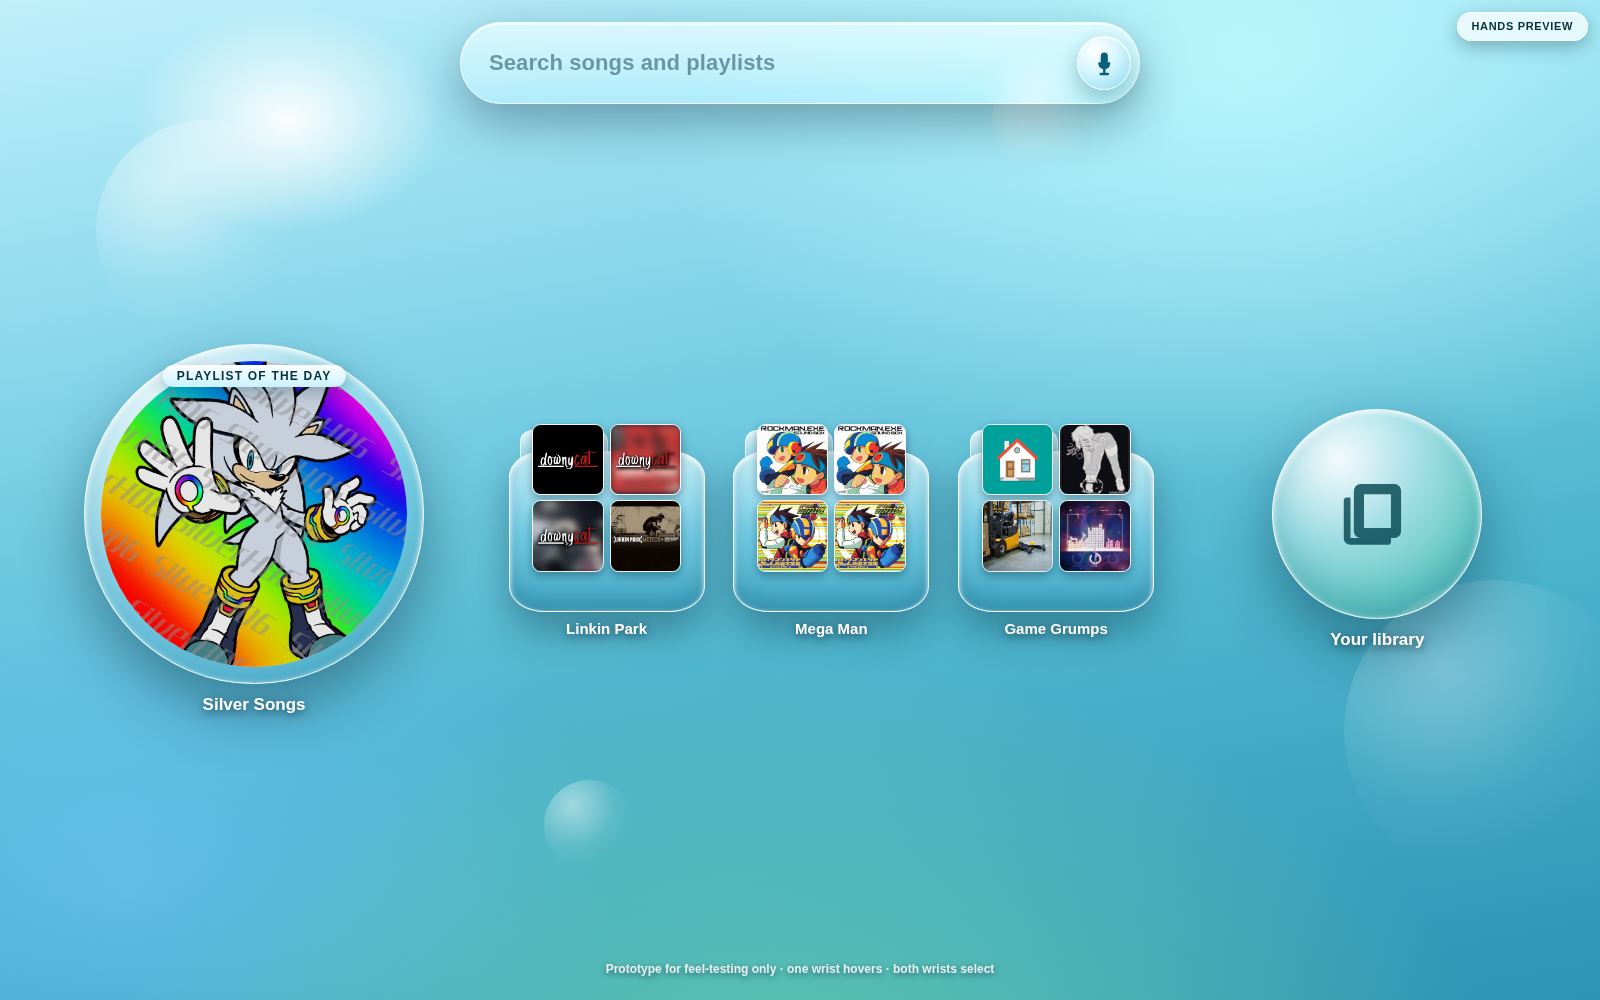
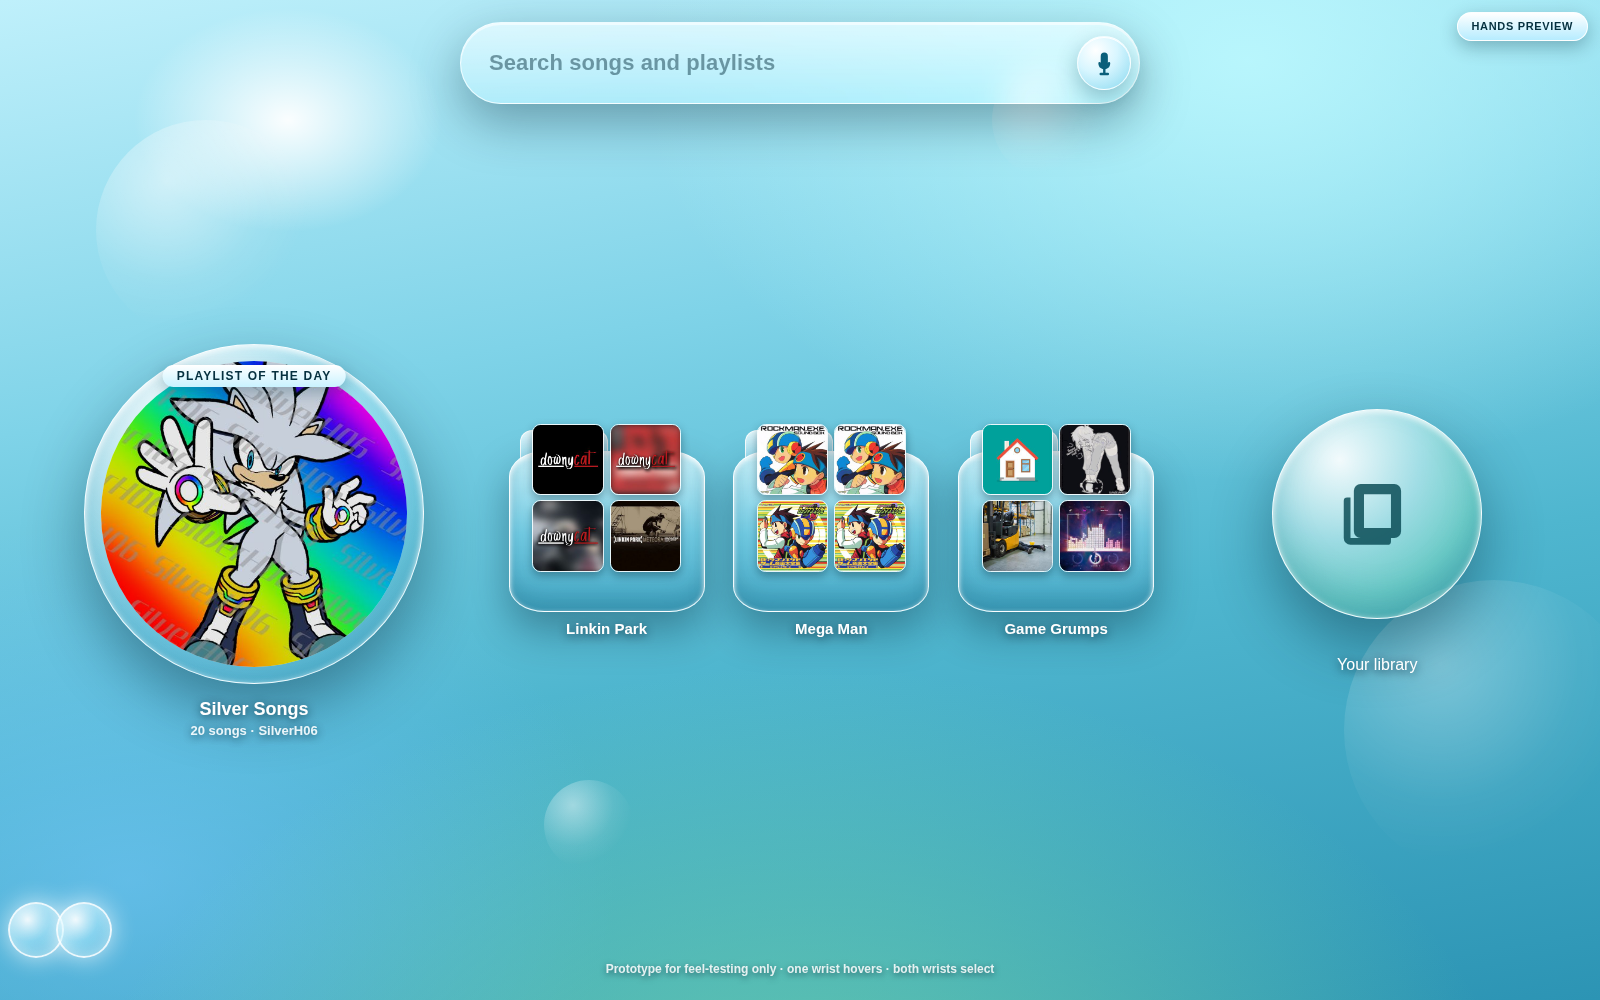
Activate hand targets from any overlap and add playlist captions
A wrist now counts as being on a target when its disc overlaps it, not when
its centre is inside it, so the whole button is usable instead of only its
middle. Selection asks which single target both wrists overlap, so a disc
straddling two neighbours can no longer split the vote and silently block
activation.

Also moves the daily playlist name below its cover with the song count and
curator beneath it.

diff --git a/design/hand-ui/assets/app.js b/design/hand-ui/assets/app.js
@@ -4,7 +4,8 @@
 
 const DATA = window.AEROBEAT_PROTOTYPE;
 const HOLD_MS = 520;          // feel-test knob: how long both wrists must agree
-const WRIST_SPREAD = 74;      // px between the two simulated wrists
+const WRIST_SPREAD = 48;      // px between the two simulated wrists
+const WRIST_DIAMETER = 56;    // px; discs are treated as wrists that cover area
 
 const asset = src => (src ? `assets/${src}` : '');
 const allPlaylists = () => [DATA.playlistOfTheDay, ...DATA.recommended];
@@ -30,9 +31,57 @@ const hands = {
   consumed: null,      // element already activated; must be released before re-arming
 };
 
-function targetAt(x, y) {
-  const el = document.elementFromPoint(x, y);
-  return el ? el.closest('[data-hand-target]') : null;
+/** A wrist counts as over a target whenever its disc overlaps the target at all,
+ *  not only when the wrist centre is inside it. Overlap is what a person judging
+ *  their own hands calls being on the button, and it makes the whole target
+ *  usable instead of just its middle. */
+function discRect(x, y) {
+  return {
+    left: x - WRIST_DIAMETER / 2, right: x + WRIST_DIAMETER / 2,
+    top: y - WRIST_DIAMETER / 2, bottom: y + WRIST_DIAMETER / 2,
+  };
+}
+
+function overlapArea(a, b) {
+  const w = Math.min(a.right, b.right) - Math.max(a.left, b.left);
+  const h = Math.min(a.bottom, b.bottom) - Math.max(a.top, b.top);
+  return w > 0 && h > 0 ? w * h : 0;
+}
+
+/** Every hand target this wrist disc touches, with how much of the disc it covers. */
+function overlapped(x, y) {
+  const disc = discRect(x, y);
+  const hits = [];
+  for (const el of document.querySelectorAll('[data-hand-target]')) {
+    const area = overlapArea(disc, el.getBoundingClientRect());
+    if (area > 0) hits.push({ el, area });
+  }
+  return hits;
+}
+
+/** Hover is per wrist: the target this wrist is most over. */
+function bestForWrist(x, y) {
+  let best = null;
+  let bestArea = 0;
+  for (const { el, area } of overlapped(x, y)) {
+    if (area > bestArea) { bestArea = area; best = el; }
+  }
+  return best;
+}
+
+/** Selection is shared: any target both discs overlap counts, so the pair does not
+ *  need to be centred, and a disc straddling two neighbours cannot split the vote. */
+function agreementFor(left, right) {
+  const rightAreas = new Map(overlapped(right.x, right.y).map(({ el, area }) => [el, area]));
+  let best = null;
+  let bestShare = 0;
+  for (const { el, area } of overlapped(left.x, left.y)) {
+    const other = rightAreas.get(el);
+    if (other === undefined) continue;
+    const share = Math.min(area, other);
+    if (share > bestShare) { bestShare = share; best = el; }
+  }
+  return best;
 }
 
 function clearHover() {
@@ -82,19 +131,19 @@ function updateHands() {
   wristEls[0].style.transform = `translate(${left.x}px, ${left.y}px)`;
   wristEls[1].style.transform = `translate(${right.x}px, ${right.y}px)`;
 
-  const leftTarget = targetAt(left.x, left.y);
-  const rightTarget = targetAt(right.x, right.y);
+  const leftHover = bestForWrist(left.x, left.y);
+  const rightHover = bestForWrist(right.x, right.y);
+  const agree = agreementFor(left, right);
 
   // Each wrist independently lights up whatever it is over: this is the
   // "aiming is cheap, committing is deliberate" half of the interaction.
   clearHover();
-  for (const [el, wrist] of [[leftTarget, wristEls[0]], [rightTarget, wristEls[1]]]) {
+  for (const [el, wrist] of [[leftHover, wristEls[0]], [rightHover, wristEls[1]]]) {
     if (!el) continue;
     el.classList.add('is-hover');
     wrist.classList.add('is-hover');
   }
-
-  const agree = leftTarget && rightTarget && leftTarget === rightTarget ? leftTarget : null;
+  if (agree) agree.classList.add('is-hover');
 
   // Release gate: after activating, both wrists must leave before it can fire again.
   if (hands.consumed) {
@@ -167,7 +216,7 @@ function installSearch() {
 function renderHome() {
   const daily = DATA.playlistOfTheDay;
   const dailyEl = document.querySelector('[data-role="daily"]');
-  dailyEl.innerHTML = `<span class="pod-badge">Playlist of the day</span>${artHtml(daily)}<span class="pod-caption">${escapeHtml(daily.name)}</span><span class="dwell-ring"></span>`;
+  dailyEl.innerHTML = `<span class="pod-badge">Playlist of the day</span>${artHtml(daily)}<span class="pod-caption"><span class="pod-name">${escapeHtml(daily.name)}</span><span class="pod-sub">${daily.maps.length} songs · ${escapeHtml(daily.owner || 'BeatSaver')}</span></span><span class="dwell-ring"></span>`;
   dailyEl.addEventListener('click', () => navigate(daily));
 
   const rec = document.querySelector('[data-role="recommended"]');

diff --git a/design/hand-ui/assets/styles.css b/design/hand-ui/assets/styles.css
@@ -147,10 +147,12 @@ body {
   box-shadow: 0 6px 16px rgba(6,60,80,.30);
 }
 .pod .pod-caption {
-  position: absolute; inset-inline: 0; bottom: -1.9em; text-align: center;
-  font: 700 clamp(13px, 1.1vw, 17px)/1.25 var(--font);
+  position: absolute; inset-inline: 0; bottom: -3.5em;
+  display: grid; gap: 3px; text-align: center;
   color: #fff; text-shadow: 0 2px 8px rgba(4,40,55,.75);
 }
+.pod .pod-name { font: 700 clamp(14px, 1.15vw, 18px)/1.2 var(--font); }
+.pod .pod-sub { font: 600 clamp(11px, .88vw, 13px)/1.2 var(--font); opacity: .88; }
 
 .recommended { display: flex; align-items: center; justify-content: center; gap: clamp(10px, 1.8vw, 30px); flex-wrap: wrap; }
 
@@ -221,7 +223,7 @@ body {
 
 .wrist {
   position: fixed; top: 0; left: 0; z-index: 19;
-  width: 74px; height: 74px; margin: -37px 0 0 -37px;
+  width: 56px; height: 56px; margin: -28px 0 0 -28px;
   border-radius: 50%; pointer-events: none; opacity: 0;
   transition: opacity 160ms ease, transform 70ms linear;
   background: radial-gradient(circle at 34% 30%, rgba(255,255,255,.96), rgba(180,240,255,.5) 44%, rgba(60,170,205,.30) 100%);

diff --git a/design/hand-ui/README.md b/design/hand-ui/README.md
@@ -14,11 +14,15 @@ Open `index.html` directly in a browser. No build, no server, no dependencies.
 
 Press **Hands preview** in the top-right corner. Two wrist discs follow the mouse, spaced apart the way two real hands would be.
 
-- Move so **one** disc is over a target: it highlights. That is aiming, and it is free.
-- Move so **both** discs are over the **same** target: a white ring fills over roughly half a second, then it activates. That is committing.
+- Move so **one** disc touches a target: it highlights. That is aiming, and it is free.
+- Move so **both** discs touch the **same** target: a white ring fills over roughly half a second, then it activates. That is committing.
 - After it activates, both discs must leave that target before it can fire again.
 
-That timing and the required grip are the two knobs most worth reacting to. The ring fill is 520 ms (`HOLD_MS` in `assets/app.js`); the wrist spacing is 74 px (`WRIST_SPREAD`).
+A wrist counts as being on a target when its disc *overlaps* the target at all, not when the wrist centre is inside it. So you can activate from anywhere over a button, including 4 px inside its edge, and the pair does not need to straddle the middle.
+
+If the two discs overlap two neighbouring buttons at once, nothing activates. Selection asks which single target both wrists touch, so a disc sitting across a boundary cannot split the vote.
+
+That timing and the required grip are the knobs most worth reacting to. The ring fill is 520 ms (`HOLD_MS`), the wrist spacing is 48 px (`WRIST_SPREAD`), and each disc is 56 px across (`WRIST_DIAMETER`), all in `assets/app.js`.
 
 Mouse clicks work normally throughout, which is also how the real thing must behave.
 
